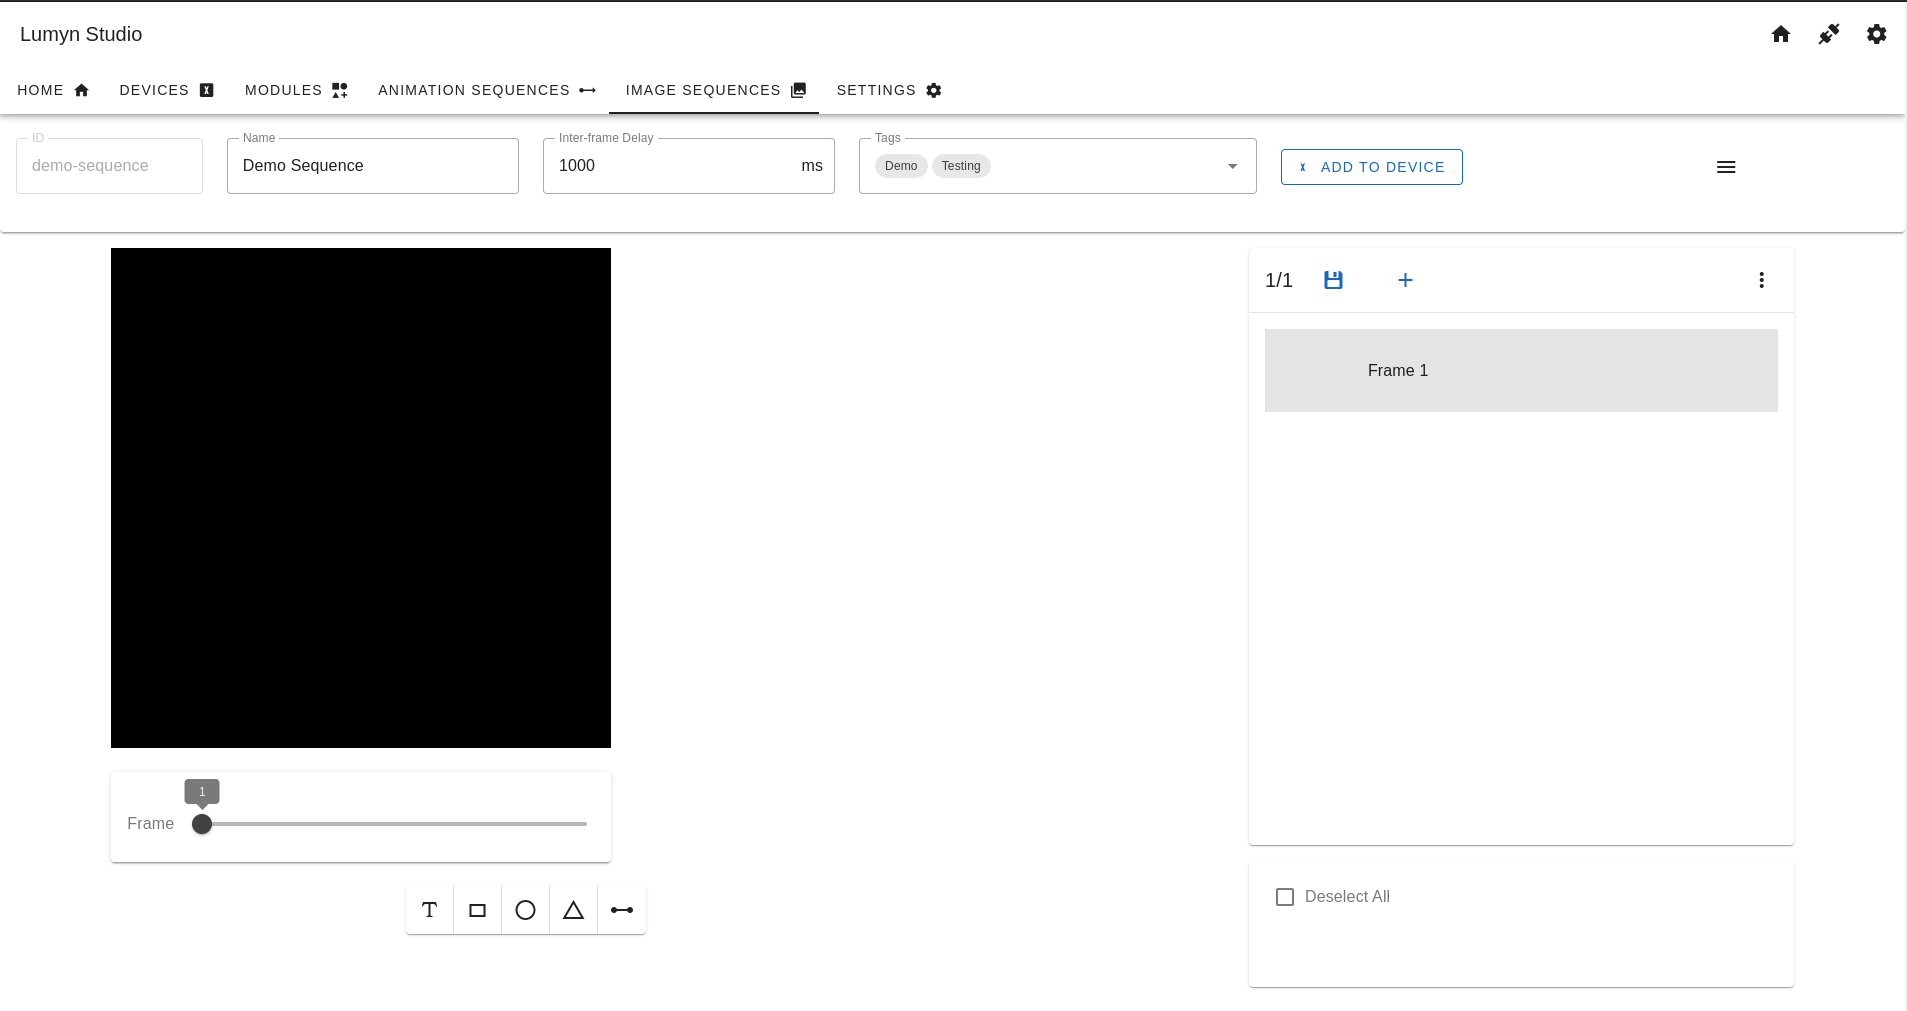
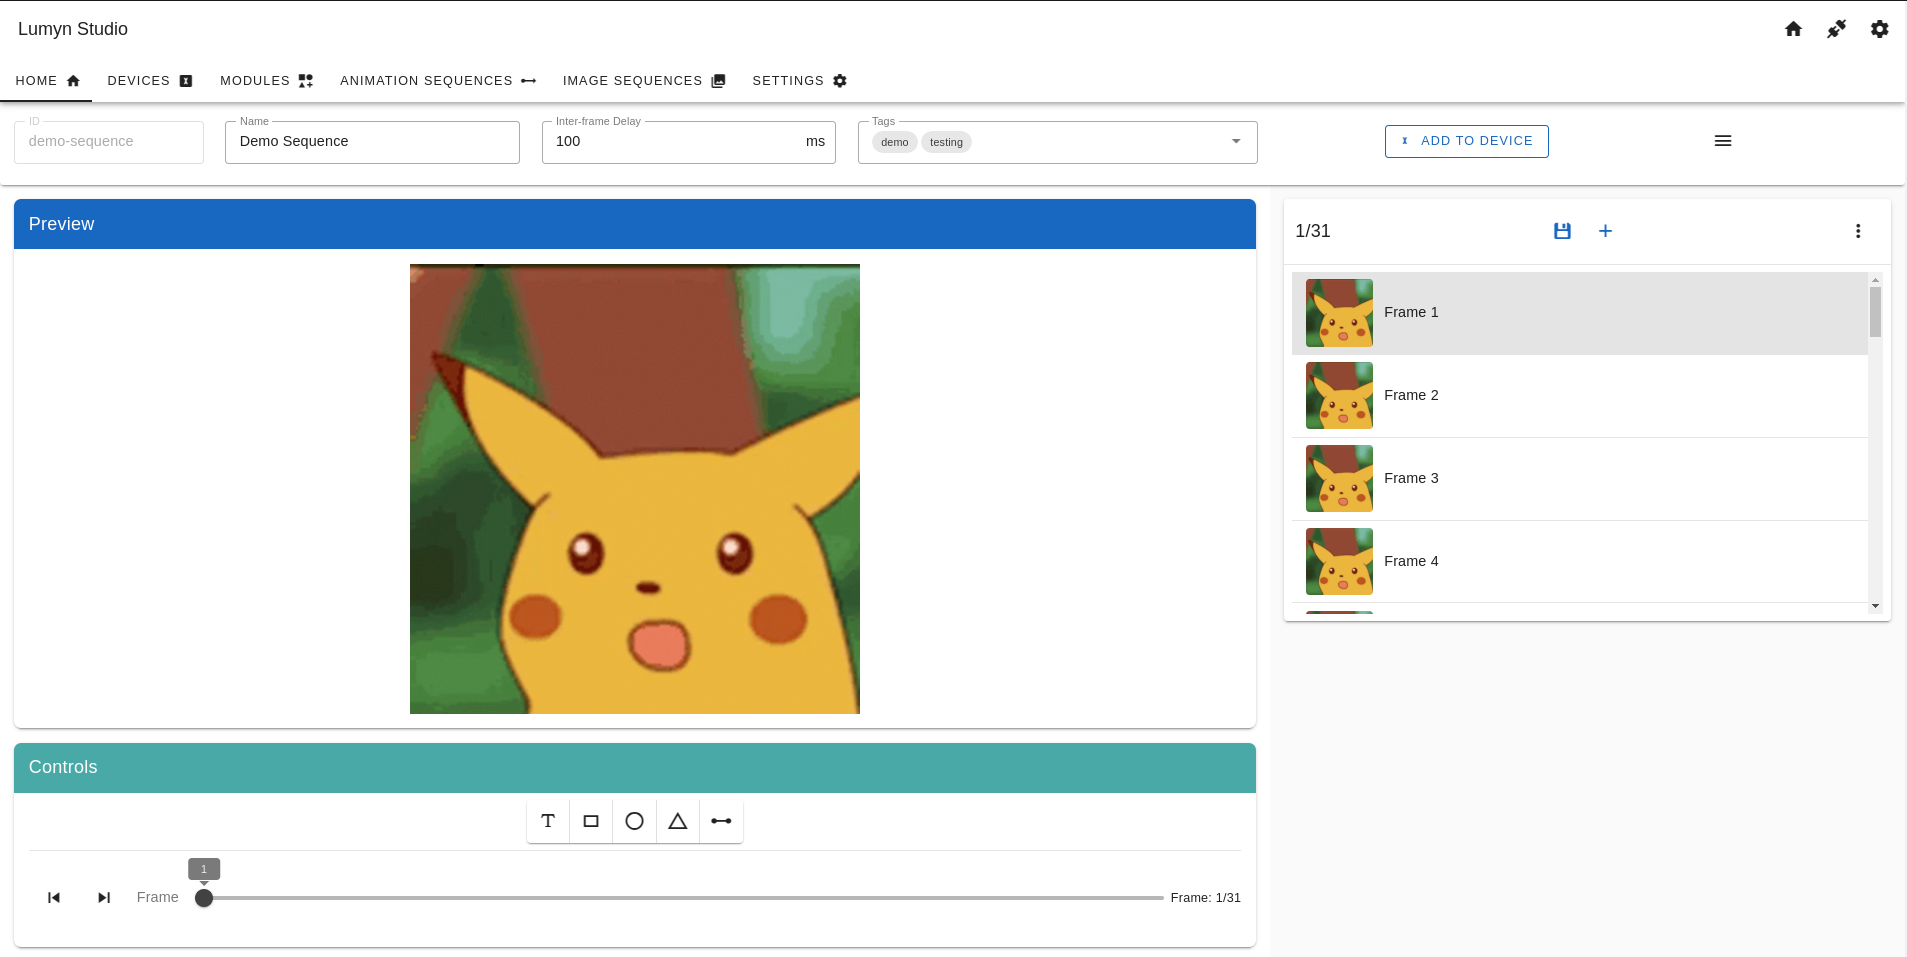
update docs for new image editor, removed" send to device" button

diff --git a/lumyn-studio/image-sequences/README.md b/lumyn-studio/image-sequences/README.md
@@ -1,34 +1,36 @@
 # Image Sequences
 
-This section provides documentation for creating and managing **Image Sequences** in Lumyn Studio. Image sequences are a series of images displayed in order on an LED matrix. They can be created from a starting image, importing a GIF, or drawing directly on the canvas.
+This section provides documentation for creating and managing **Image Sequences** in Lumyn Studio. Image sequences are a series of images displayed in order on an LED matrix. You can create them by starting from a single image, importing a GIF, or drawing directly on the canvas.
 
 ## Creating a New Image Sequence
 
-To create a new image sequence, navigate to the **Image Sequences** page in Lumyn Studio. By default, this page is empty. If you have created any image sequences, they will be displayed here. You can also hover over created image sequences to see a preview of what they look like.
+To create a new image sequence, navigate to the **Image Sequences** page in Lumyn Studio. By default, this page is empty.If you have existing image sequences, they will be displayed here. Hover over any sequence to preview its animation.
 
-To create a new image sequence, click the "**Create Image Sequence**" button. This will open a dialog where you can configure the image sequence. Start by choosing your image source:
+To create a new image sequence, click the "**Create Image Sequence**" button. This will open a dialog where you can configure the image sequence. Start by selecting your image source:
 
 - **Single Image**: Create an image sequence from a single image. This is useful for displaying static images on your LED matrix or when you want to design the sequence frame by frame.
 - **Animated GIF**: Import a GIF file to create an image sequence. This is useful when you have an existing GIF animation that you want to display on your LED matrix.
 - **Free-Draw**: Draw directly on the canvas to create an image sequence. This is useful for creating custom animations or patterns, displaying text, or drawing shapes on your LED matrix.
 
-<img src="/lumyn-studio/image-sequences/create-dialog-page1.png" alt="Image Sequence Creation Dialog Page 1" height="400"/>
+<img src="/lumyn-studio/image-sequences/create-dialog-page1.png" alt="Image Sequence Creation Dialog Page 1" max-height="400"/>
 
-After choosing your image source, give your image sequence an ID (this will be used to reference the sequence in code) and a human-readable name. Choose an initial aspect ratio for the canvas (ideally matching the aspect ratio of your image source or LED matrix), and provide a description and tags to help organize your sequences. Finally, click "**Create**" to create the image sequence.
+Next, assign an **ID** (used for referencing the sequence in code) and a name. Choose an **aspect ratio** for the canvas (ideally matching your LED matrix or image source) and add a **description** and **tags** for organization. Click "**Create**" to finalize your sequence.
 
-<img src="/lumyn-studio/image-sequences/create-dialog-page2.png" alt="Image Sequence Creation Dialog Page 2" height="400"/>
+<img src="/lumyn-studio/image-sequences/create-dialog-page2.png" alt="Image Sequence Creation Dialog Page 2" max-height="400"/>
 
 ## Editing an Image Sequence
 
-To edit an image sequence, click on the sequence in the **Image Sequences** page. This will open the Image Sequence Editor, where you can add and remove images in the sequence. The editor is divided into three main sections:
+To edit an image sequence, click on the sequence in the **Image Sequences** page. This will open the **Image Sequence Editor**, where you can add and remove images in the sequence. The editor is divided into three main sections:
 
-- **Preview**: This area shows a preview of what the image sequence will look like. It's a panable and zoomable canvas that shows the images in the sequence.
-- **Frame List**: To the right of the preview is the frame list. This is where you can add, remove, and reorder images in the sequence. Each frame represents a single image in the sequence.
-- **Toolbar**: Below the preview is the toolbar. It contains tools for editing your image sequence, such as adding text, shapes, or moving images around.
+- **Preview**: This area shows a preview of what the image sequence will look like.
+- **Controls**: This area provides tools for adding, removing, and editing objects on the canvas as well as a play bar to scrub through the sequence.
+- **Frame List**: To the right of the Preview is the frame list. This area shows all the frames in the sequence and allows you to add, remove, and save changes to frames.
 
-<img src="/lumyn-studio/image-sequences/editor-page.png" alt="Image Sequence Editor" height="600"/>
+<img src="/lumyn-studio/image-sequences/editor-page.png" alt="Image Sequence Editor" max-height="700"/>
 
-To add objects to the canvas, select a tool from the toolbar. Selecting a tool will display additional options for customizing the object. Here are the available tools:
+### Adding Objects
+
+Use the toolbar to add objects to the canvas. Some tools add objects immediately, while others open customization options:
 
 - **Text**: Add text to the canvas. You can customize the font, size, color, alignment and more.
 - **Rectangle**: Add a rectangle to the canvas.
@@ -36,11 +38,19 @@ To add objects to the canvas, select a tool from the toolbar. Selecting a tool w
 - **Triangle**: Add a triangle to the canvas.
 - **Line**: Add a line to the canvas.
 
-Clicking any of these tools will immediately add the object to the canvas. You can then move, resize, and customize the object using the toolbar. To remove an object, select it on the canvas and click the **Delete** button in the toolbar. If you are unsure what a tool does, hover over it to see a tooltip with a description.
+Once added, objects can be moved, resized, and customized using the toolbar. To remove an object, select it and click "Delete." Hover over a tool to see a tooltip description.
 
-To add a new frame click the plus icon above the frame list. This will add a new frame to the end of the sequence. You can then edit the frame by adding objects to the canvas. To remove a frame, click the ... icon in the top right of the frame list and select "**Delete Frame**".
+### Managing Frames
 
-Once you are done editing your image sequence, click on the **hamburger menu** at the top right of the editor and select "**Save and Generate**". This will save your changes and compile the image sequence. To preview the sequence, hover "**Preview**" from the hamburger menu. This menu also allows you to delete the sequence or change the aspect ratio of the canvas.
+To add a new frame, click the "**+**" icon above the frame list. Frames can be edited by adding objects to the canvas. To remove a frame, click the "**...**" icon in the frame list and select "**Delete Frame**."
+
+Changes are saved automatically when switching frames, or you can manually save by clicking the **floppy disk icon** above the frame list.
+
+### Finalizing and Exporting
+
+Once editing is complete, click the** hamburger menu** in the top-right corner and select "**Save and Generate**." This compiles the image sequence, which may take some time.
+
+To preview the sequence, hover over "**Preview**" in the menu. Additional options include deleting the sequence or changing the canvas aspect ratio.
 
 ## Adding to a Device Configuration
 
@@ -48,7 +58,9 @@ Once you have created an image sequence, you can add it to a device configuratio
 
 ![Add to Device Dialog](add-to-device.png)
 
-Select a device from the dropdown, and choose a matrix zone to display the image sequence on. The matrix zone you choose will determine the exported resolution of the image sequence. Finally, click "**Save**" to add the image sequence to the device configuration.
+1. Choose a **device** from the dropdown.
+2. Select a **matrix zone** to display the sequence (this determines the exported resolution).
+3. Click "**Save**" to apply the sequence to the configuration.
 
 ## Next Steps
 

diff --git a/lumyn-studio/exporting-device-configurations/README.md b/lumyn-studio/exporting-device-configurations/README.md
@@ -10,8 +10,6 @@ To export the device configuration, click the **Export Configuration** button in
 
 ![Configuration Preview](exported-configuration.png)
 
-If you have a device connected to Lumyn Studio, you can choose to export the configuration directly to the device. This will send the configuration to the device over the Web Serial API. To do this, click the **Send to Device** button. If you don’t have a device connected, you can download the configuration as a JSON file by clicking the **Download** button.
-
 If you have added any image sequences to the device, you can choose to export them along with the configuration. To do this, check the **Include Image Assets in Export** checkbox. This will download a zip file containing the configuration JSON at the root level and a folder for each image sequence, containing the images in the sequence.
 
 ## Sending a JSON Configuration to a Device.
